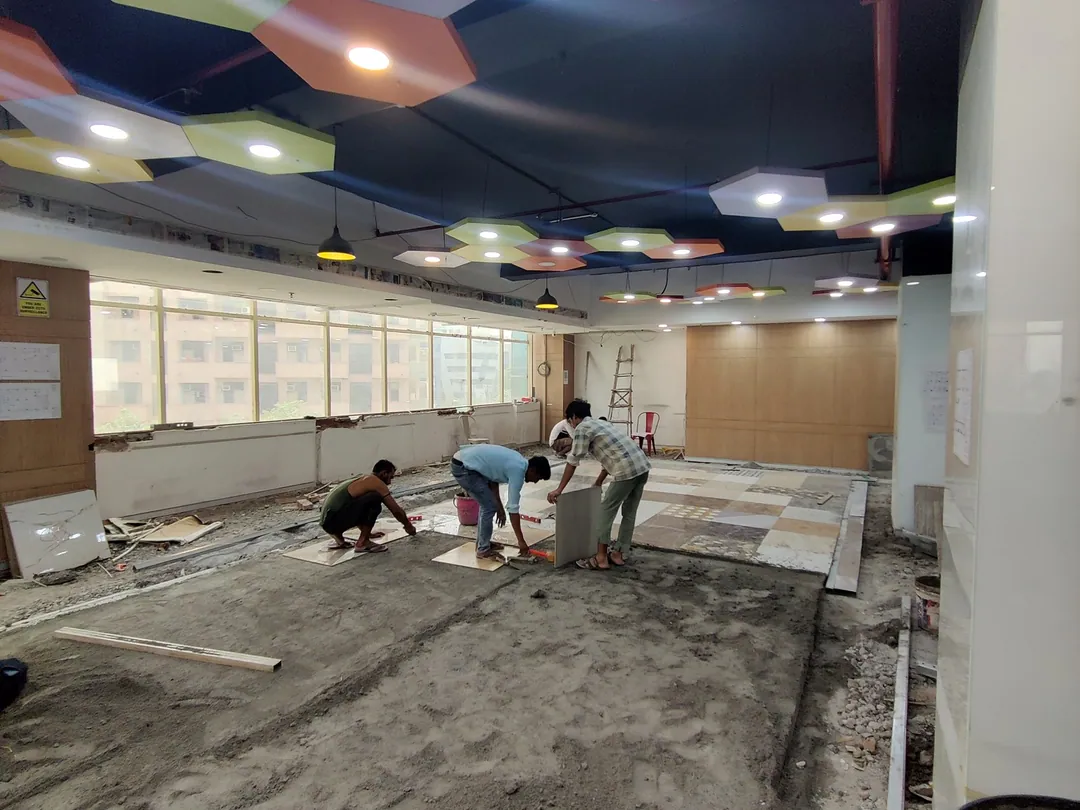
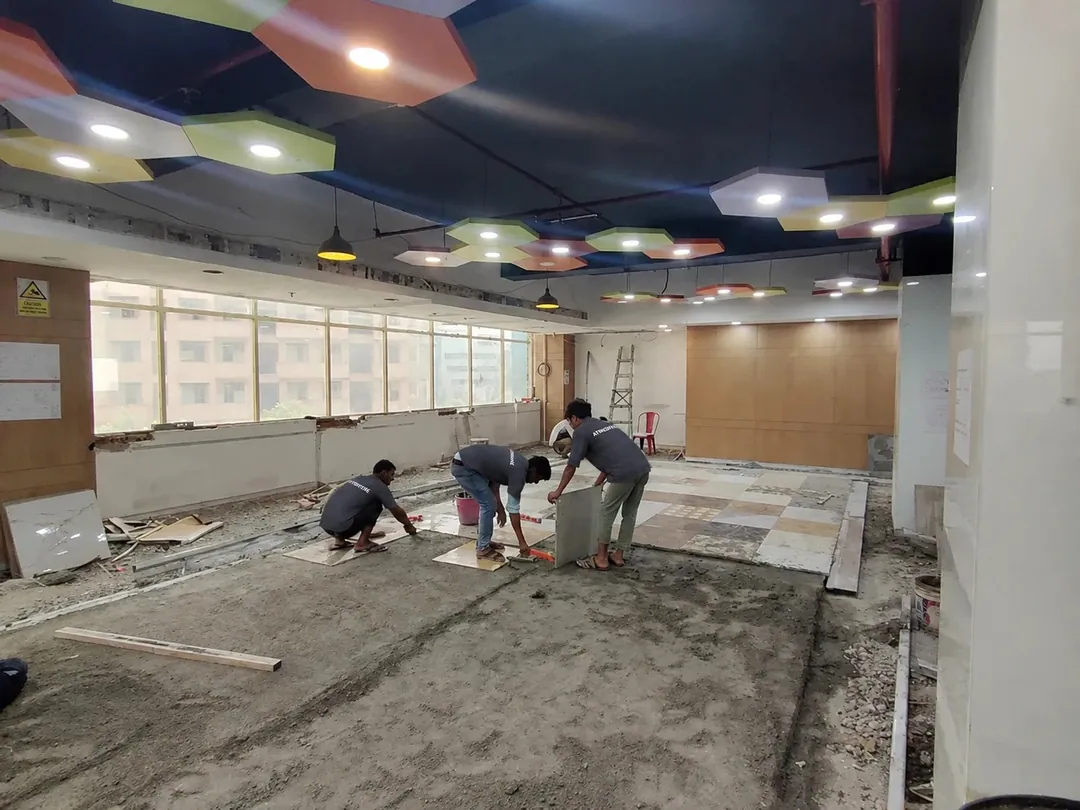
Behind the scenes: three tiles with the team in Atmosfere T-shirts

diff --git a/src/data/siteDiary.js b/src/data/siteDiary.js
@@ -20,7 +20,7 @@ export const siteDiary = {
     photo("express-2.jpg", "Express One", "Bedroom joinery", "The curved headboard wall being built in ply, the bed base beside it"),
     photo("t10-202-1.jpg", "Tower 10 – 202", "Shell", "The living room as a shell: plastered walls, boards stacked on the floor, the window to the towers"),
     photo("krishna-2.jpg", "Krishna Nagar Jewellery Store", "Facade", "The shopfront behind scaffolding while the new facade is fitted"),
-    photo("arihant-1.jpg", "Arihant", "Carpet and ceiling", "The team laying carpet tiles under the coloured acoustic ceiling"),
+    photo("arihant-1.jpg", "Arihant", "Flooring", "The Atmosfere team laying the floor tiles under the coloured acoustic ceiling"),
     photo("veridia-2.jpg", "Veridia Wave City", "Joinery", "The television unit and wall panelling built, before the finishes"),
     clip("express-c1.mp4", "express-c1.jpg", "Express One", "Finishing", "A walk through the hall as the panelled wall and lighting are finished"),
     photo("lajpat-3.jpg", "Suneja Card Creations", "Shelving", "The brass-trimmed shelving uprights fitted and taped, the strip lights already on"),
